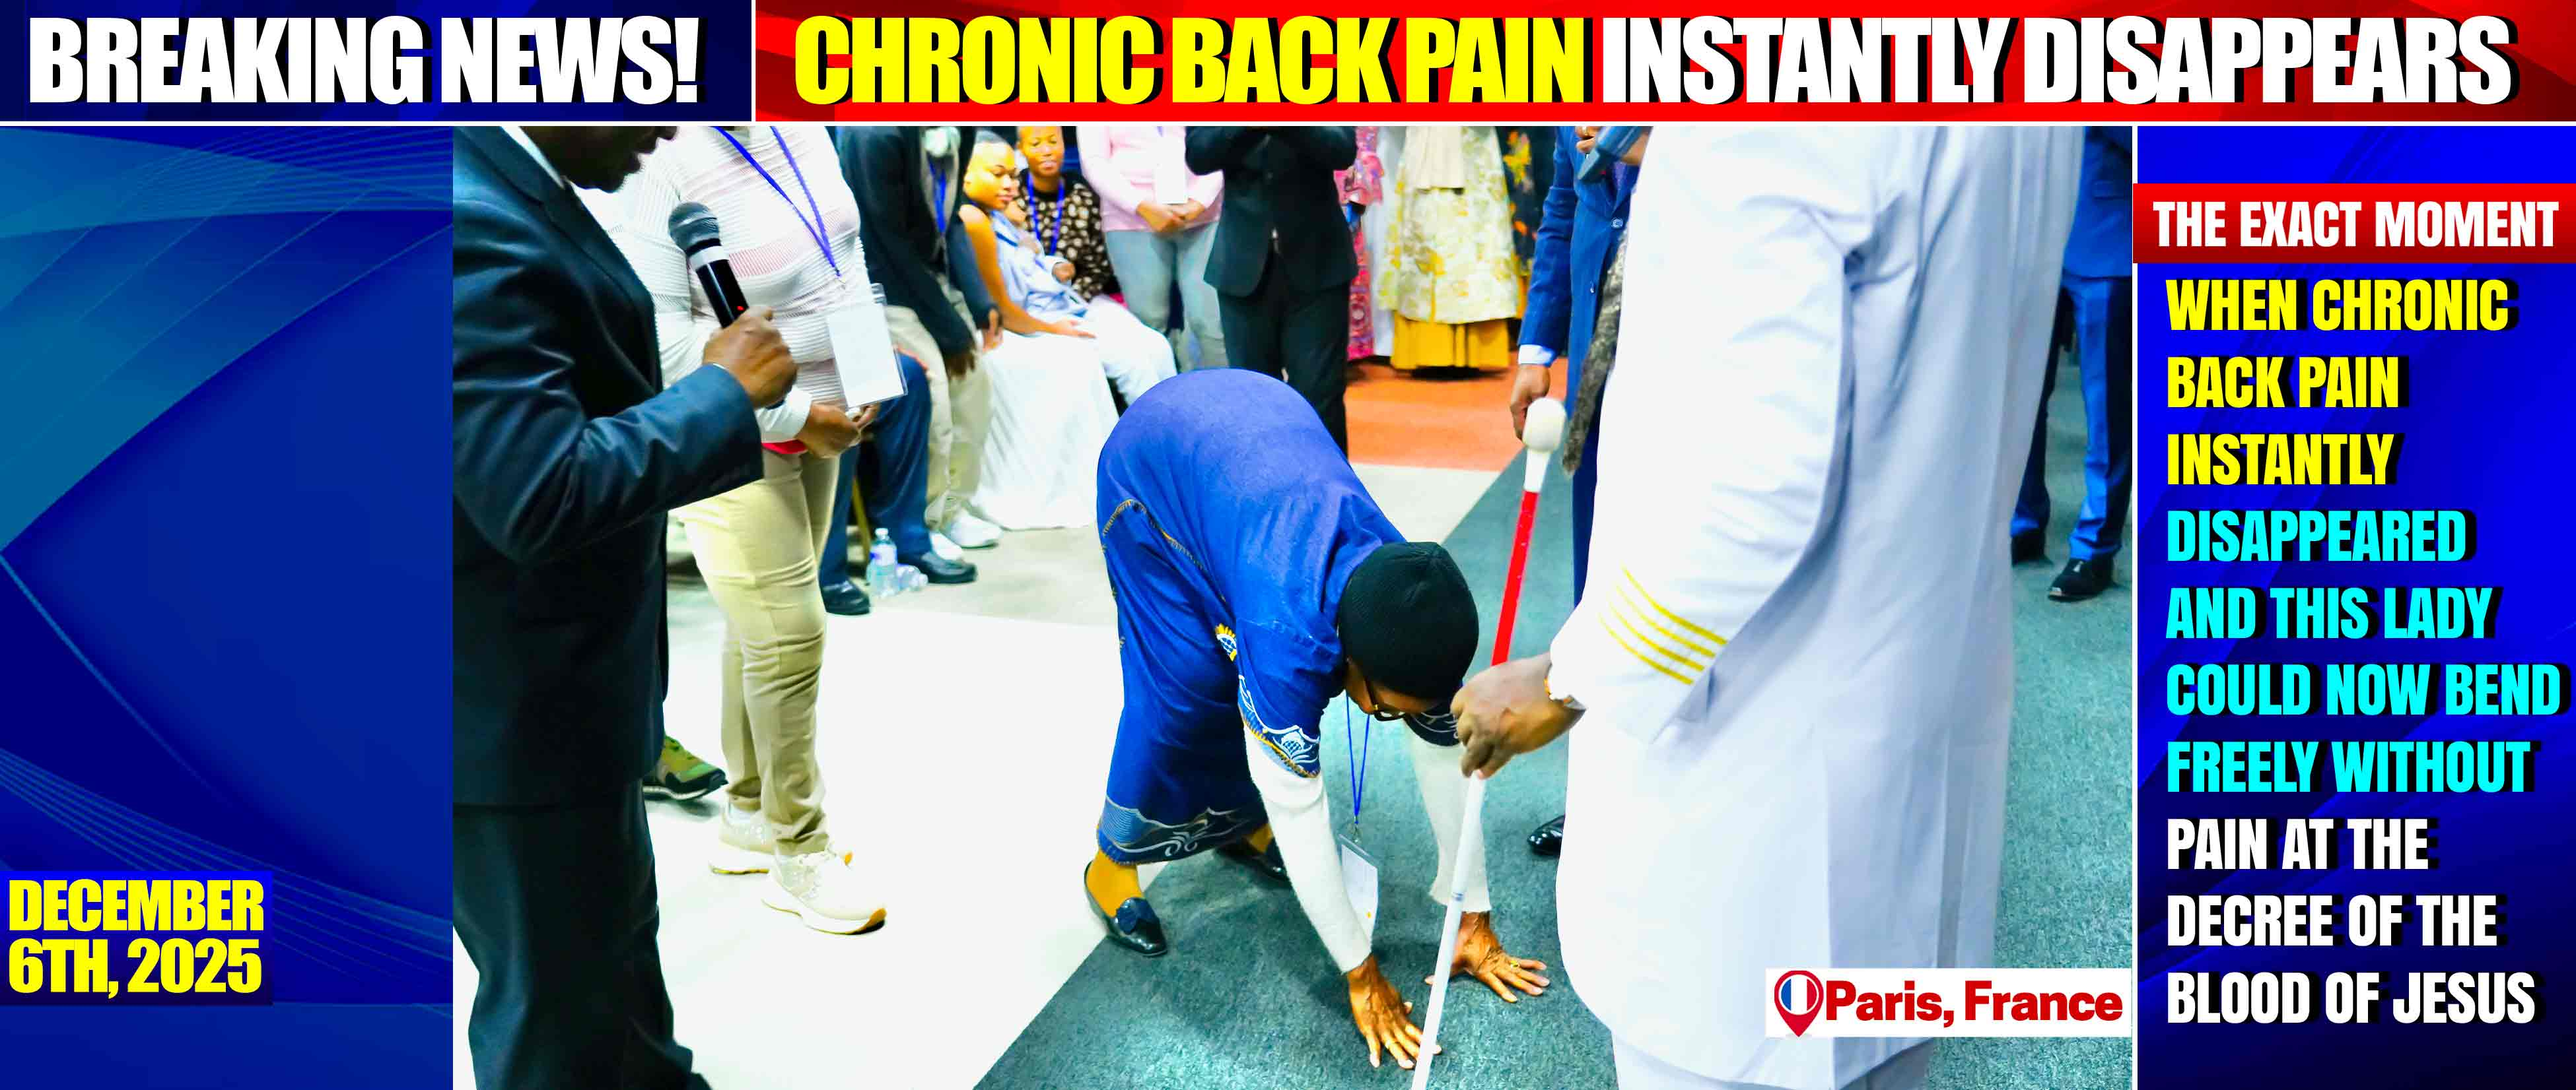
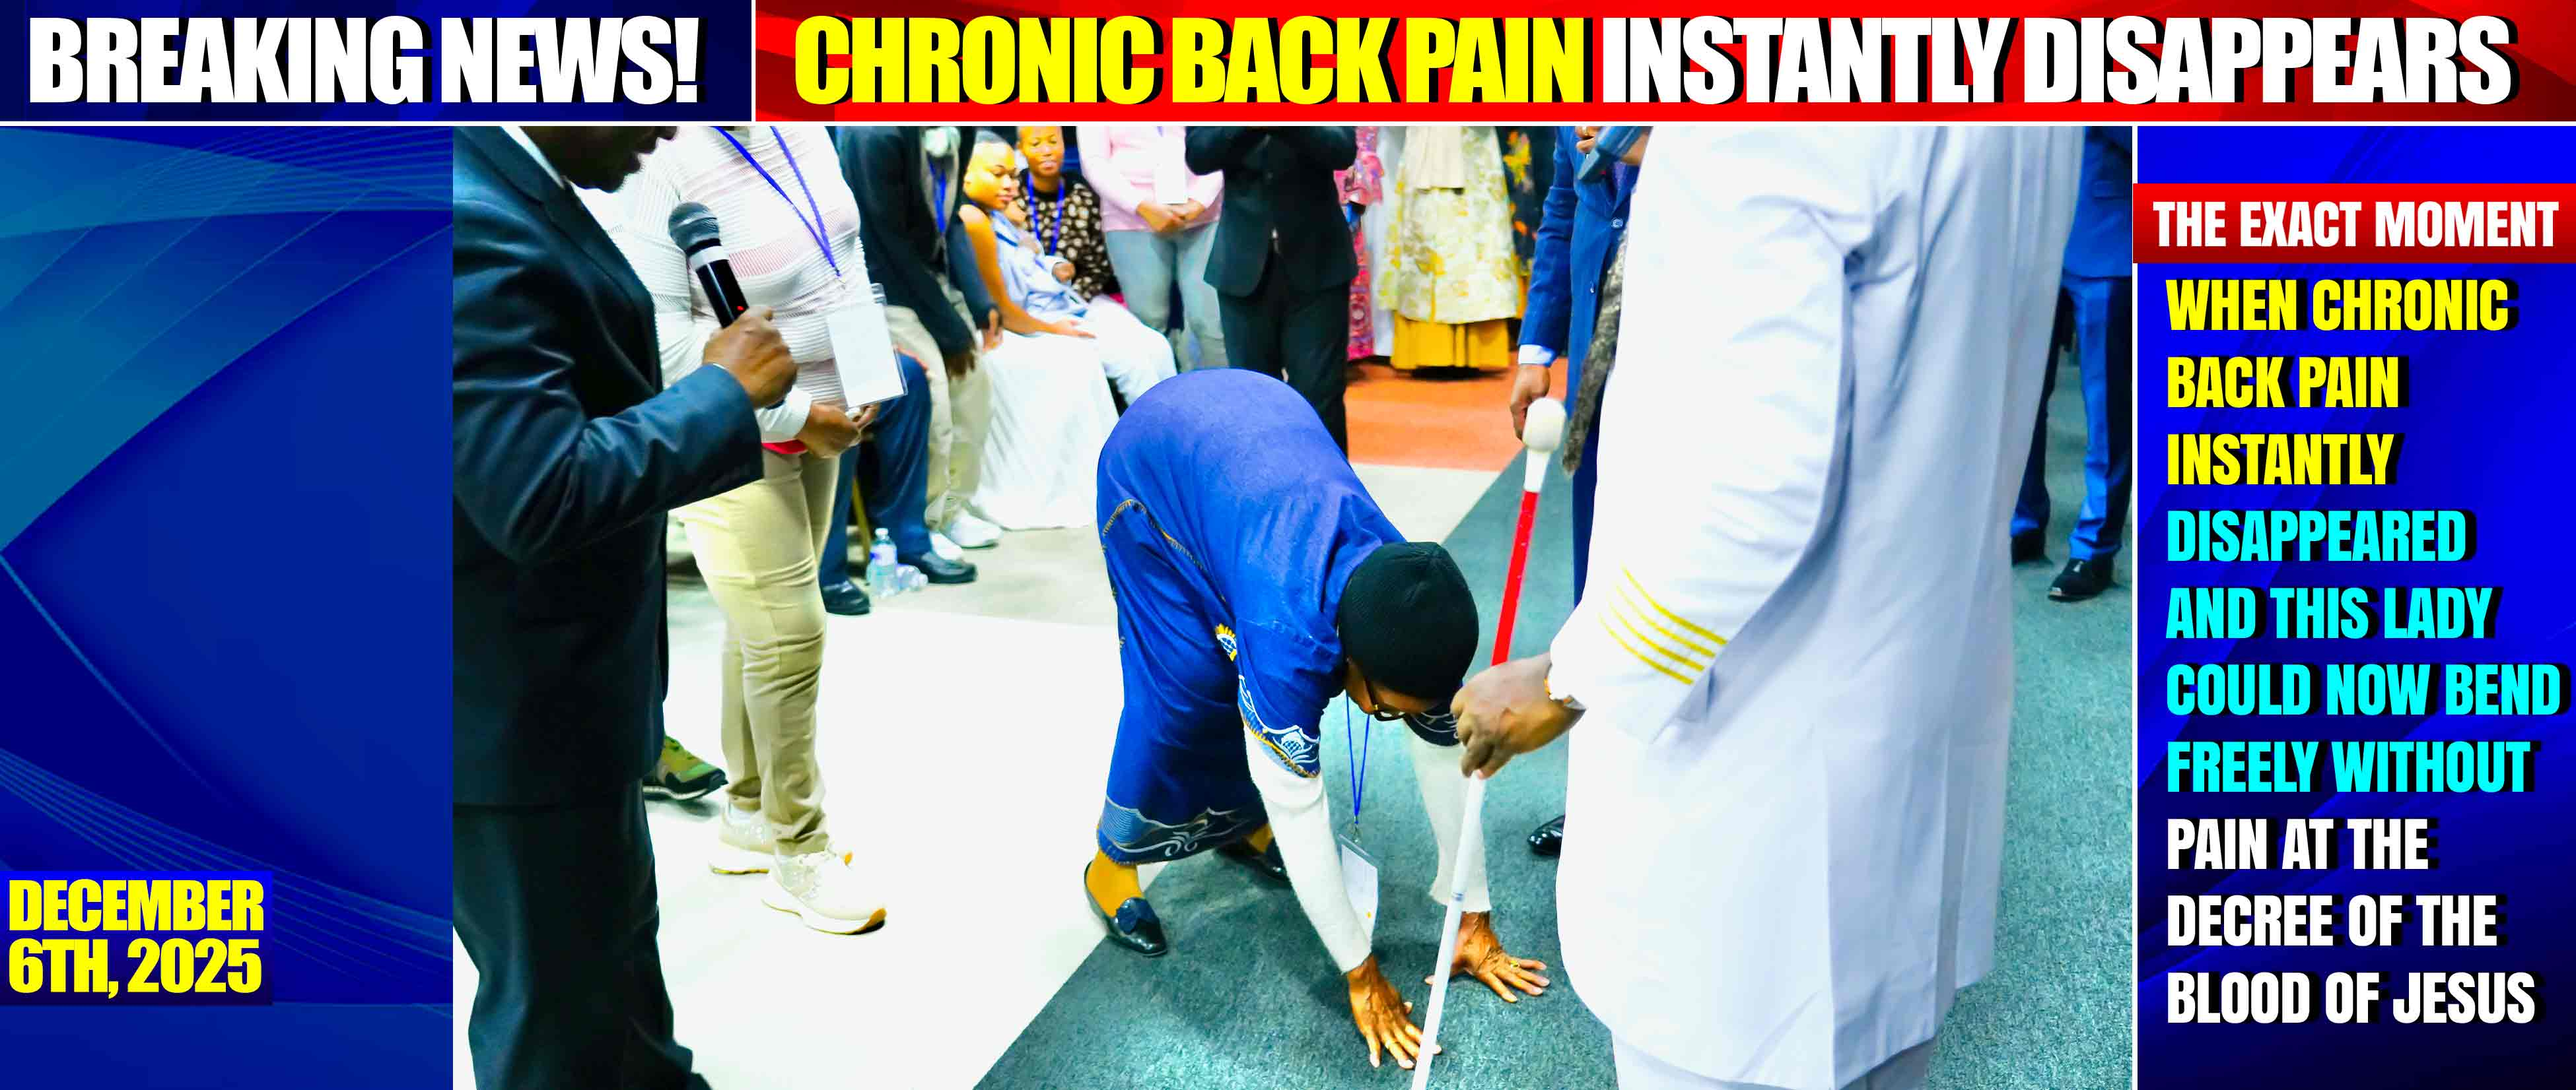
new

Changed region(s): [[0.6824, 0.8644, 0.8375, 0.957]]

diff --git a/index.html b/index.html
@@ -51,7 +51,7 @@
 <img class="slideshow" src= "https://pub-9f92551086574e82abebdc7b9c83cf92.r2.dev/PARIS%20FRANCE/4.%20Healing%20Service/Shrivelled.jpg" alt="Unstable internet, please refresh the browser">
 <img class="slideshow" src= "https://pub-9f92551086574e82abebdc7b9c83cf92.r2.dev/PARIS%20FRANCE/4.%20Healing%20Service/Shrivelled-1.jpg" alt="Unstable internet, please refresh the browser">
 
-<img class="slideshow" src= "https://pub-9f92551086574e82abebdc7b9c83cf92.r2.dev/PARIS%20FRANCE/4.%20Healing%20Service/Shrivelled-1.jpg" alt="Unstable internet, please refresh the browser">
+<img class="slideshow" src= "https://pub-9f92551086574e82abebdc7b9c83cf92.r2.dev/PARIS%20FRANCE/4.%20Healing%20Service/Back-pain.jpg" alt="Unstable internet, please refresh the browser">
 
 
 
